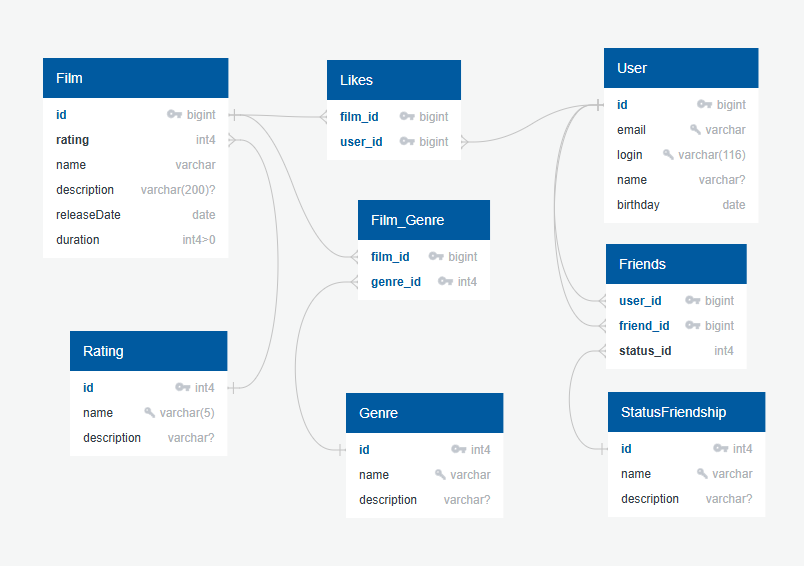
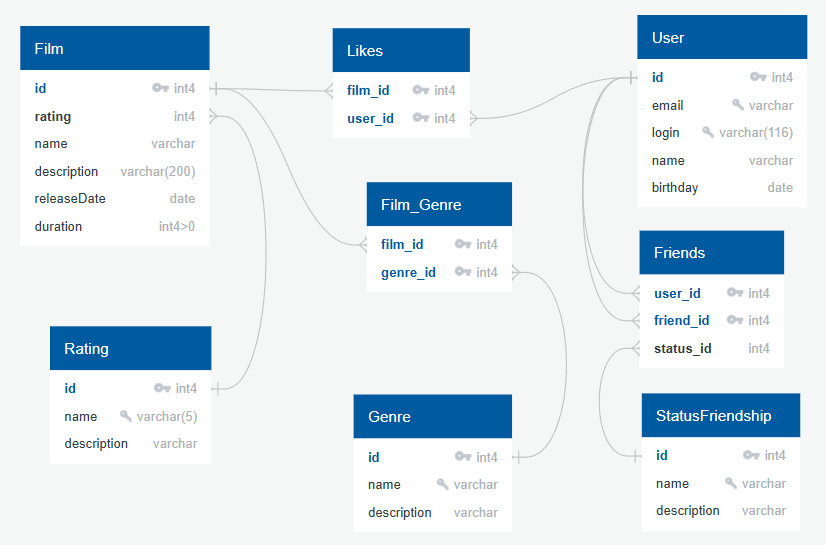
Организация. Создание базы данных

diff --git a/README.md b/README.md
@@ -12,7 +12,6 @@ Filmorate Documentation
 - Если в таблице нескольким полям установлена метка **PK**, это значит составной первичный ключ, в который
 входят отмеченные поля. Таблицы с составным ключом: **Film_Genre, Likes, Friends**.
 - Поле, которое является внешним ключом, имеет метку **FK**.
-- Если полю не указана метка **NULL**, это значит, что применяется по умолчанию метка **NOT NULL** (не указывается в явном виде).
 - Для использования ограничения уникальности полю ставят метку **UNIQUE**.
 
 \
@@ -20,36 +19,36 @@ Filmorate Documentation
 
 Таблица для хранения списка объектов класса Film.
 
-| Field       | Description                              | Type         | Default | Other    |
-|-------------|------------------------------------------|--------------|---------|----------|
-| id          |                                          | bigint       |         | PK       |
-| rating      | Рейтинг фильма                           | int4         |         | FK       |
-| name        | Наименование фильма                      | varchar      |         |          |
-| description | Описание фильма                          | varchar(200) |         | NULLABLE |
-| releaseDate | Дата выпуска фильма                      | date         |         |          |
-| duration    | Длительность фильма в секундах, больше 0 | int4>0       |         |          |
+| Field       | Description                              | Type         | Default | Other                                        |
+|-------------|------------------------------------------|--------------|---------|----------------------------------------------|
+| id          |                                          | int4         |         | PK                                           |
+| rating      | Рейтинг фильма                           | int4         |         | NOT NULL, FK Rating.id NO ACTION             |
+| name        | Наименование фильма                      | varchar      |         | NOT NULL, CHECK (TRIM('	 ' FROM name) != '') |
+| description | Описание фильма                          | varchar(200) | ''      | NOT NULL                                     |
+| releaseDate | Дата выпуска фильма                      | date         |         | NOT NULL                                     |
+| duration    | Длительность фильма в секундах, больше 0 | int4>0       |         | NOT NULL, > 0                                |
 
 \
 **Rating**
 
 Таблица для хранения списка рейтингов (объект класса Rating).
 
-| Field       | Description                                   | Type       | Default | Other    |
-|-------------|-----------------------------------------------|------------|---------|----------|
-| id          |                                               | int4       |         | PK       |
-| name        | Кодовое обозначение рейтинга (G, PG и другие) | varchar(5) |         | UNIQUE   |
-| description | Описание рейтинга                             | varchar    |         | NULLABLE |
+| Field       | Description                                   | Type       | Default | Other            |
+|-------------|-----------------------------------------------|------------|---------|------------------|
+| id          |                                               | int4       |         | PK               |
+| name        | Кодовое обозначение рейтинга (G, PG и другие) | varchar(5) |         | NOT NULL, UNIQUE |
+| description | Описание рейтинга                             | varchar    | ''      | NOT NULL         |
 
 \
 **Genre**
 
 Таблица для хранения списка жанров.
 
-| Field       | Description        | Type    | Default | Other    |
-|-------------|--------------------|---------|---------|----------|
-| id          |                    | int4    |         | PK       |
-| name        | Наименование жанра | varchar |         | UNIQUE   |
-| description | Описание жанра     | varchar |         | NULLABLE |
+| Field       | Description        | Type    | Default | Other            |
+|-------------|--------------------|---------|---------|------------------|
+| id          |                    | int4    |         | PK               |
+| name        | Наименование жанра | varchar |         | NOT NULL, UNIQUE |
+| description | Описание жанра     | varchar | ''      | NOT NULL         |
 
 \
 **Film_Genre**
@@ -59,23 +58,31 @@ Filmorate Documentation
 - один фильм принадлежит нескольким жанрам
 - одному жанру принадлежит несколько фильмов
 
-| Field     | Description | Type   | Default | Other  |
-|-----------|-------------|--------|---------|--------|
-| film\_id  | Фильм       | bigint |         | PK, FK |
-| genre\_id | Жанр        | int4   |         | PK, FK |
+| Field     | Description | Type | Default | Other                               |
+|-----------|-------------|------|---------|-------------------------------------|
+| film\_id  | Фильм       | int4 |         | PK, NOT NULL, FK Film.id NO ACTION  |
+| genre\_id | Жанр        | int4 |         | PK, NOT NULL, FK Genre.id NO ACTION |
 
 \
 **User**
 
 Таблица для хранения списка объектов класса User.
+\
+**Важно.** В СУБД PostgreSQL **user** зарезервировано. Для использования этого имени потребуется в запросах добавлять кавычки,
+что крайне не удобно и к тому же в СУБД MS SQL такого ограничения нет. Поэтому таблицу в СУБД H2 назовем **User_**. 
 
-| Field    | Description           | Type         | Default | Other    |
-|----------|-----------------------|--------------|---------|----------|
-| id       |                       | bigint       |         | PK       |
-| email    | эл.почта пользователя | varchar      |         | UNIQUE   |
-| login    | логин пользователя    | varchar(116) |         | UNIQUE   |
-| name     | имя пользователя      | varchar      |         | NULLABLE |
-| birthday | дата рождения         | date         |         |          |
+| Field    | Description           | Type         | Default | Other                                |
+|----------|-----------------------|--------------|---------|--------------------------------------|
+| id       |                       | int4         |         | PK                                   |
+| email    | эл.почта пользователя | varchar      |         | NOT NULL, UNIQUE,                    |
+|          |                       |              |         | CHECK (TRIM('	 ' FROM email) != ''), |
+|          |                       |              |         | CHECK(email LIKE '%@%')              | 
+| login    | логин пользователя    | varchar(116) |         | NOT NULL, UNIQUE,                    |
+|          |                       |              |         | CHECK (TRIM('	 ' FROM login) != '')  |
+| name     | имя пользователя      | varchar      |         | NOT NULL                             |
+| birthday | дата рождения         | date         |         | NOT NULL                             |
+
+*- для СУБД MS SQL. Для СУБД PostgreSQL, H2 значения по умолчанию не будет.
 
 \
 **Likes**
@@ -89,21 +96,21 @@ Filmorate Documentation
 
 Составной первичный ключ исключает постановку пользователем несколько лайков одному фильму.
 
-| Field    | Description                         | Type   | Default | Other  |
-|----------|-------------------------------------|--------|---------|--------|
-| film\_id | Фильм, которому поставлен лайк      | bigint |         | PK, FK |
-| user\_id | Пользователь, который поставил лайк | bigint |         | PK, FK |
+| Field    | Description                         | Type | Default | Other                              |
+|----------|-------------------------------------|------|---------|------------------------------------|
+| film\_id | Фильм, которому поставлен лайк      | int4 |         | PK, NOT NULL, FK Film.id NO ACTION |
+| user\_id | Пользователь, который поставил лайк | int4 |         | PK, NOT NULL, FK User.id NO ACTION |
 
 \
 **StatusFriendship**
 
 Таблица для хранения списка статусов дружеской связи.
 
-| Field       | Description                          | Type    | Default | Other    |
-|-------------|--------------------------------------|---------|---------|----------|
-| id          |                                      | int4    |         | PK       |
-| name        | Наименование статуса дружеской связи | varchar |         | UNIQUE   |
-| description | Описание статуса дружеской связи     | varchar |         | NULLABLE |
+| Field       | Description                          | Type    | Default | Other            |
+|-------------|--------------------------------------|---------|---------|------------------|
+| id          |                                      | int4    |         | PK               |
+| name        | Наименование статуса дружеской связи | varchar |         | NOT NULL, UNIQUE |
+| description | Описание статуса дружеской связи     | varchar | ''      | NOT NULL         |
 
 \
 **Friends**
@@ -112,11 +119,11 @@ Filmorate Documentation
 
 Составной ключ исключает дублирование дружеских связей между двумя пользователями.
 
-| Field     | Description            | Type   | Default | Other  |
-|-----------|------------------------|--------|---------|--------|
-| user_id   | Пользователь           | bigint |         | PK, FK |
-| friend_id | Друг пользователя      | bigint |         | PK, FK |
-| status_id | Статус дружеской связи | int4   |         | FK     |
+| Field     | Description            | Type | Default | Other                                      |
+|-----------|------------------------|------|---------|--------------------------------------------|
+| user_id   | Пользователь           | int4 |         | PK, NOT NULL, FK User.id NO ACTION         |
+| friend_id | Друг пользователя      | int4 |         | PK, NOT NULL, FK User.id NO ACTION         |
+| status_id | Статус дружеской связи | int4 |         | NOT NULL, FK StatusFriendship.id NO ACTION |
 
 \
 **ER-диаграмма базы данных**
